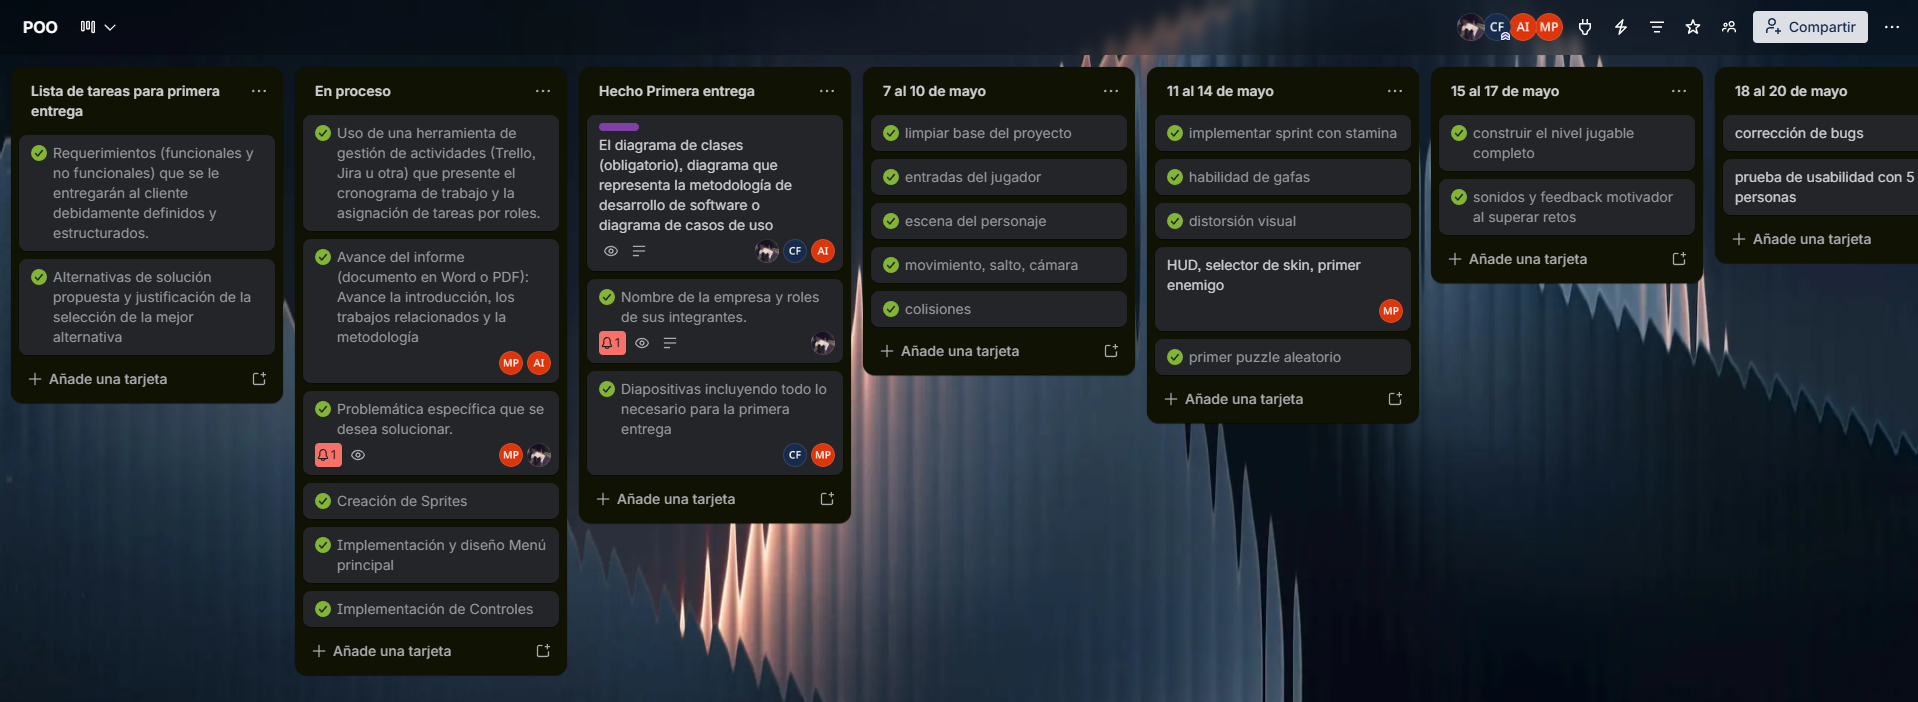
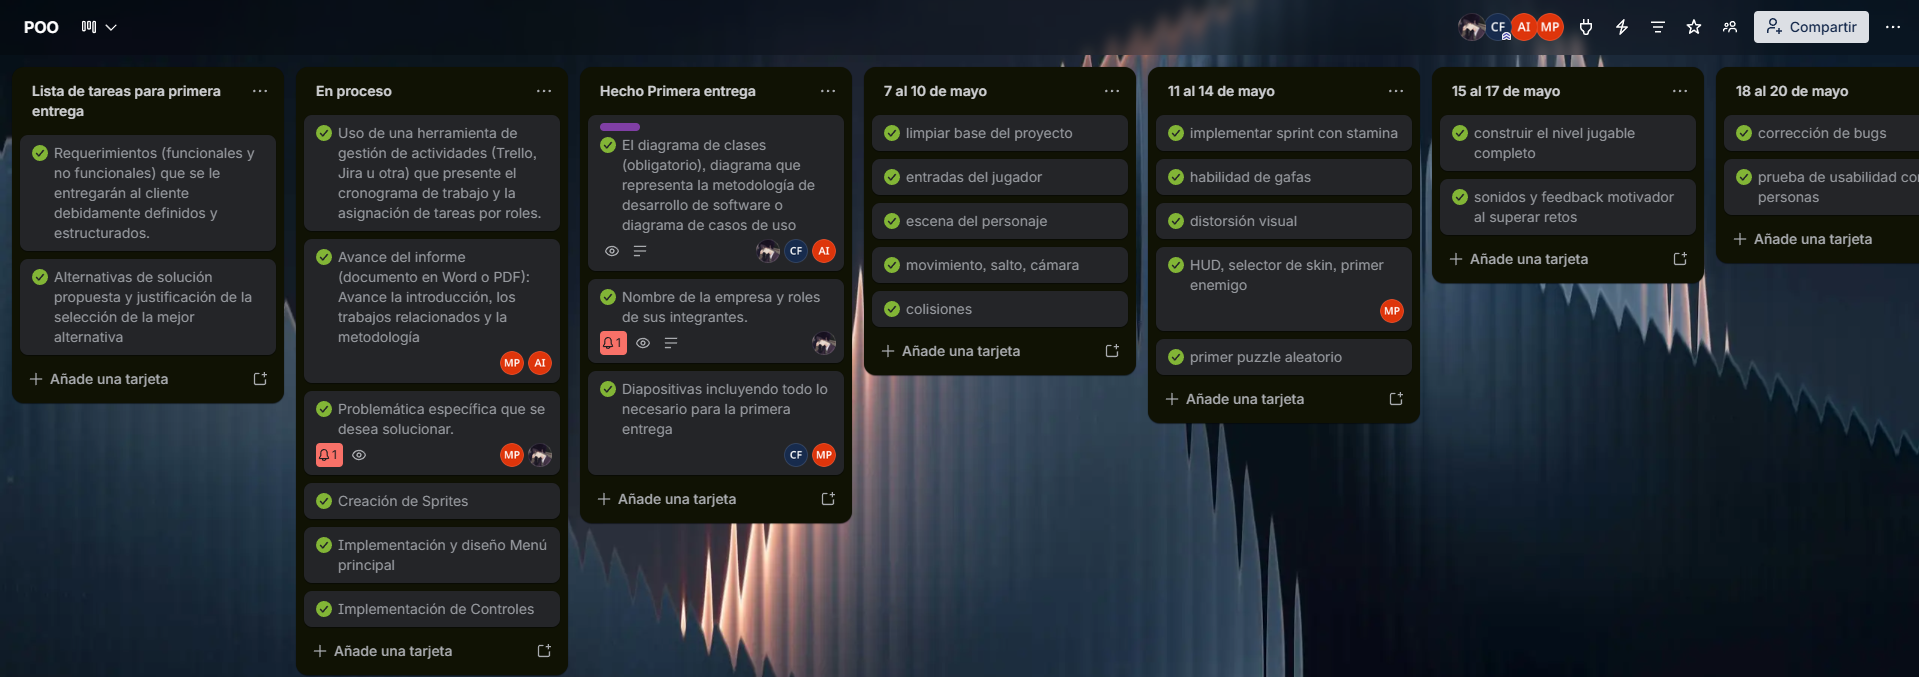
Documentación

diff --git a/docs/informe_deep_shadows.tex b/docs/informe_deep_shadows.tex
@@ -57,7 +57,7 @@ Las principales contribuciones del proyecto son las siguientes:
     \item Se implementó un prototipo funcional en Godot con menú principal, sistema de partidas, opciones, manual de usuario, mundos, HUD, puzzles aleatorios, enemigos y progresión.
     \item Se aplicaron fundamentos de programación orientada a objetos mediante clases propias, herencia, encapsulamiento, composición, señales y polimorfismo.
     \item Se incorporaron patrones de diseño defendibles: \textit{State} para los estados del jugador y \textit{Observer} mediante señales de Godot para desacoplar eventos del juego.
-    \item Se incluyeron elementos de accesibilidad y usabilidad, como filtros de color para daltonismo, control de volumen, resolución, modo de pantalla, intensidad de sacudida de cámara y una escena de controles.
+    \item Se incluyeron elementos de accesibilidad, usabilidad e inclusión, como selector de \textit{skin}, filtros de color para daltonismo, control de volumen, resolución, modo de pantalla, intensidad de sacudida de cámara y una escena de controles.
 \end{itemize}
 
 \section{Trabajos Relacionados}
@@ -149,7 +149,9 @@ Soporte & El código debe estar dividido en clases y escenas mantenibles, con no
 El equipo mínimo usado por el grupo para ejecutar el prototipo fue un portátil DELL con nombre de dispositivo ManuDell, procesador 13th Gen Intel(R) Core(TM) i5-1335U a 1.30 GHz, 16.0 GB de RAM instalada, tarjeta gráfica Intel(R) Iris(R) Xe Graphics, almacenamiento con 422 GB de 477 GB usados y sistema operativo de 64 bits basado en x64. La medición de rendimiento queda preparada para completarse posteriormente: \textbf{FPS promedio observado: 120 FPS}.
 
 \subsection{Componente Inclusivo}
-Aunque inicialmente se consideró una selección de \textit{skin}, en la versión actual el componente inclusivo se orientó hacia accesibilidad visual y comodidad de interacción. El menú de opciones permite seleccionar filtros de color para distintos tipos de daltonismo, modificar el volumen, probar sonido, ajustar resolución, cambiar modo de pantalla y regular la sacudida de cámara. Adicionalmente, el juego presenta instrucciones visuales mediante el manual de usuario, mensajes dentro del HUD y textos de retroalimentación en puzzles.
+El componente inclusivo del prototipo incorpora un selector de \textit{skin} para que el jugador pueda elegir entre dos variantes del personaje principal: una masculina y una femenina. Esta selección no modifica las mecánicas de juego, la dificultad ni la progresión, sino que permite una representación básica del jugador dentro de la experiencia. La evidencia visual de este selector se mostrará durante la presentación del proyecto, por lo que no se incluye una captura adicional dentro del informe.
+
+Además del selector de \textit{skin}, el juego integra opciones de accesibilidad visual y comodidad de interacción. El menú de opciones permite seleccionar filtros de color para distintos tipos de daltonismo, modificar el volumen, probar sonido, ajustar resolución, cambiar modo de pantalla y regular la sacudida de cámara. Adicionalmente, el juego presenta instrucciones visuales mediante el manual de usuario, mensajes dentro del HUD y textos de retroalimentación en puzzles.
 
 \subsection{Arquitectura Orientada a Objetos}
 El diseño del juego se basó en clases propias de GDScript. Godot permite registrar scripts como clases mediante \textit{class\_name}, usar herencia con \textit{extends}, definir señales y organizar la lógica en nodos y escenas \cite{godotdocs}. En el prototipo se identificaron más de cinco clases de autoría propia, por lo que se cumple el mínimo exigido en la consigna.
@@ -203,7 +205,7 @@ Durante la preparación del informe se utilizó Codex como apoyo para revisar la
 
 \section{Resultados}
 \subsection{Estado del Prototipo}
-El prototipo actual incluye un menú principal, menú de opciones, manual de usuario, selector de partidas con tres slots, escena de juego principal, HUD, jugador, puzzles, puertas, llave, checkpoints, enemigos, sistema de diálogos, segundo mundo y elementos de accesibilidad. La Tabla \ref{tab:resultados-poo} resume evidencias de programación orientada a objetos observadas en el proyecto.
+El prototipo actual incluye un menú principal, menú de opciones, manual de usuario, selector de partidas con tres slots, selector de \textit{skin} con personaje masculino y femenino, escena de juego principal, HUD, jugador, puzzles, puertas, llave, checkpoints, enemigos, sistema de diálogos, segundo mundo y elementos de accesibilidad. La Tabla \ref{tab:resultados-poo} resume evidencias de programación orientada a objetos observadas en el proyecto.
 
 \begin{table}[!htbp]
 \caption{Evidencias de programación orientada a objetos}
@@ -410,4 +412,3 @@ Godot Engine, ``Using InputEvent,'' Official documentation, 2026. [Online]. Avai
 \endgroup
 
 \end{document}
-
